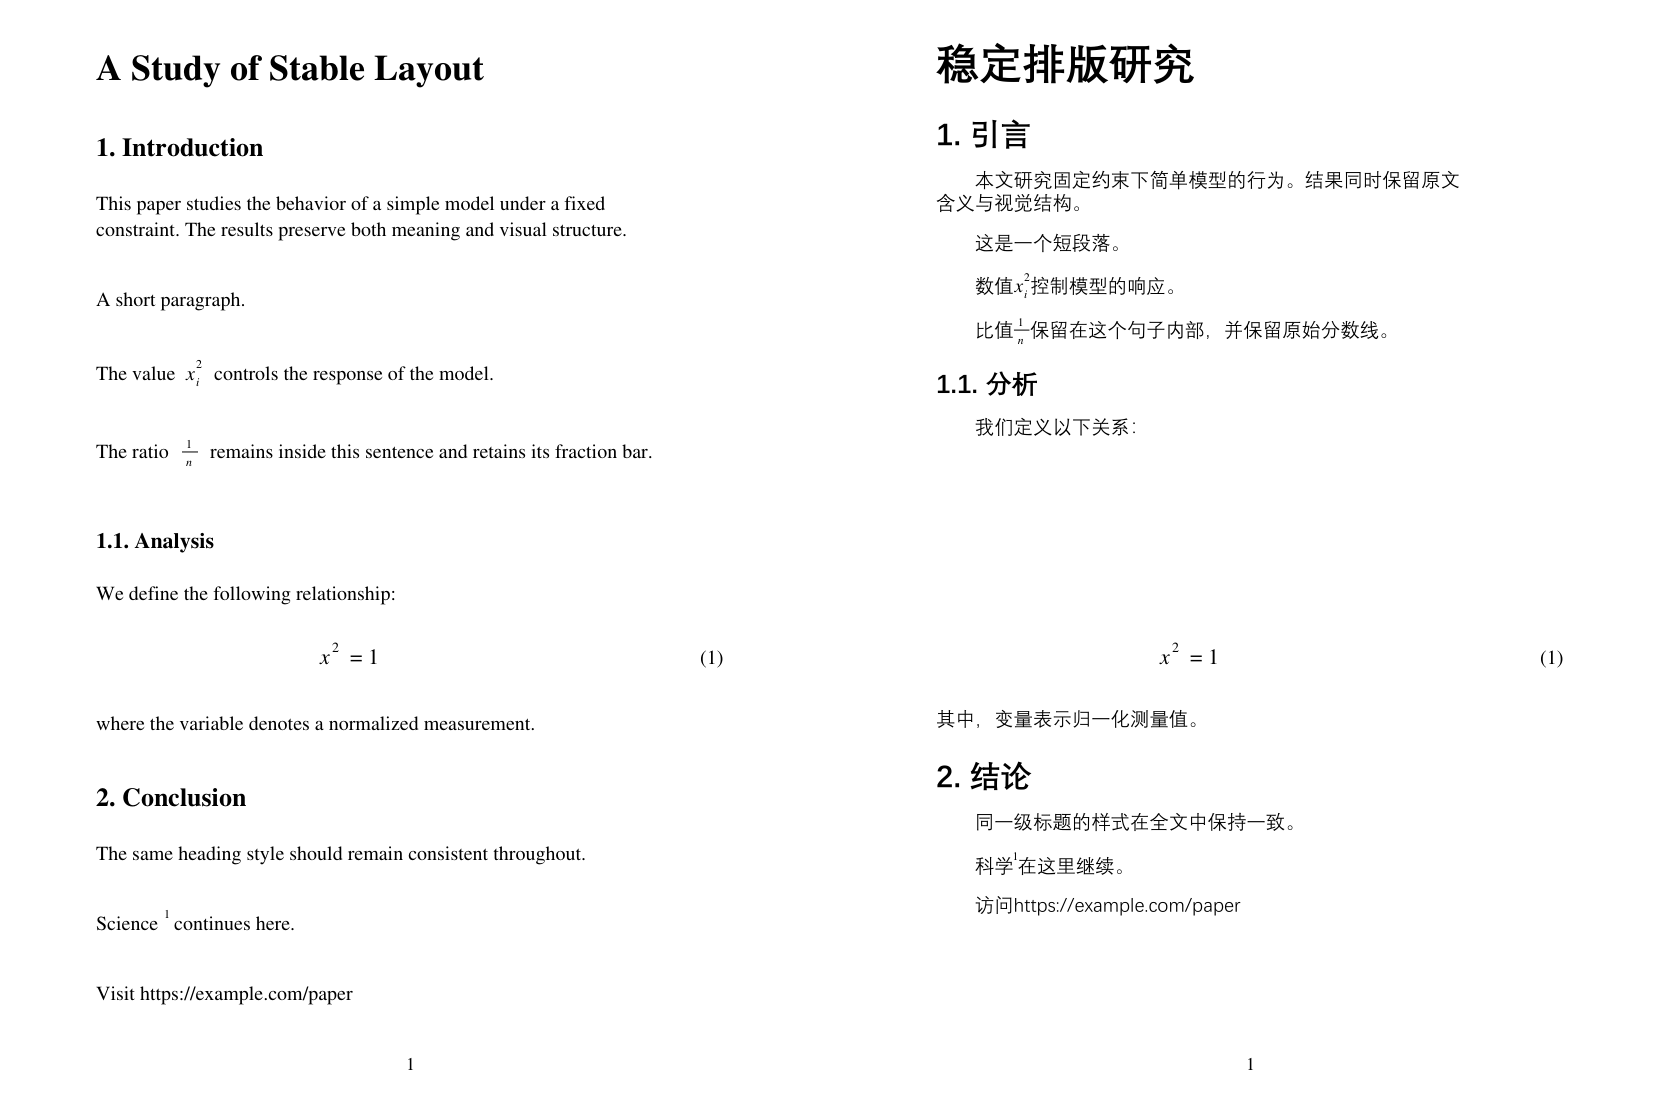
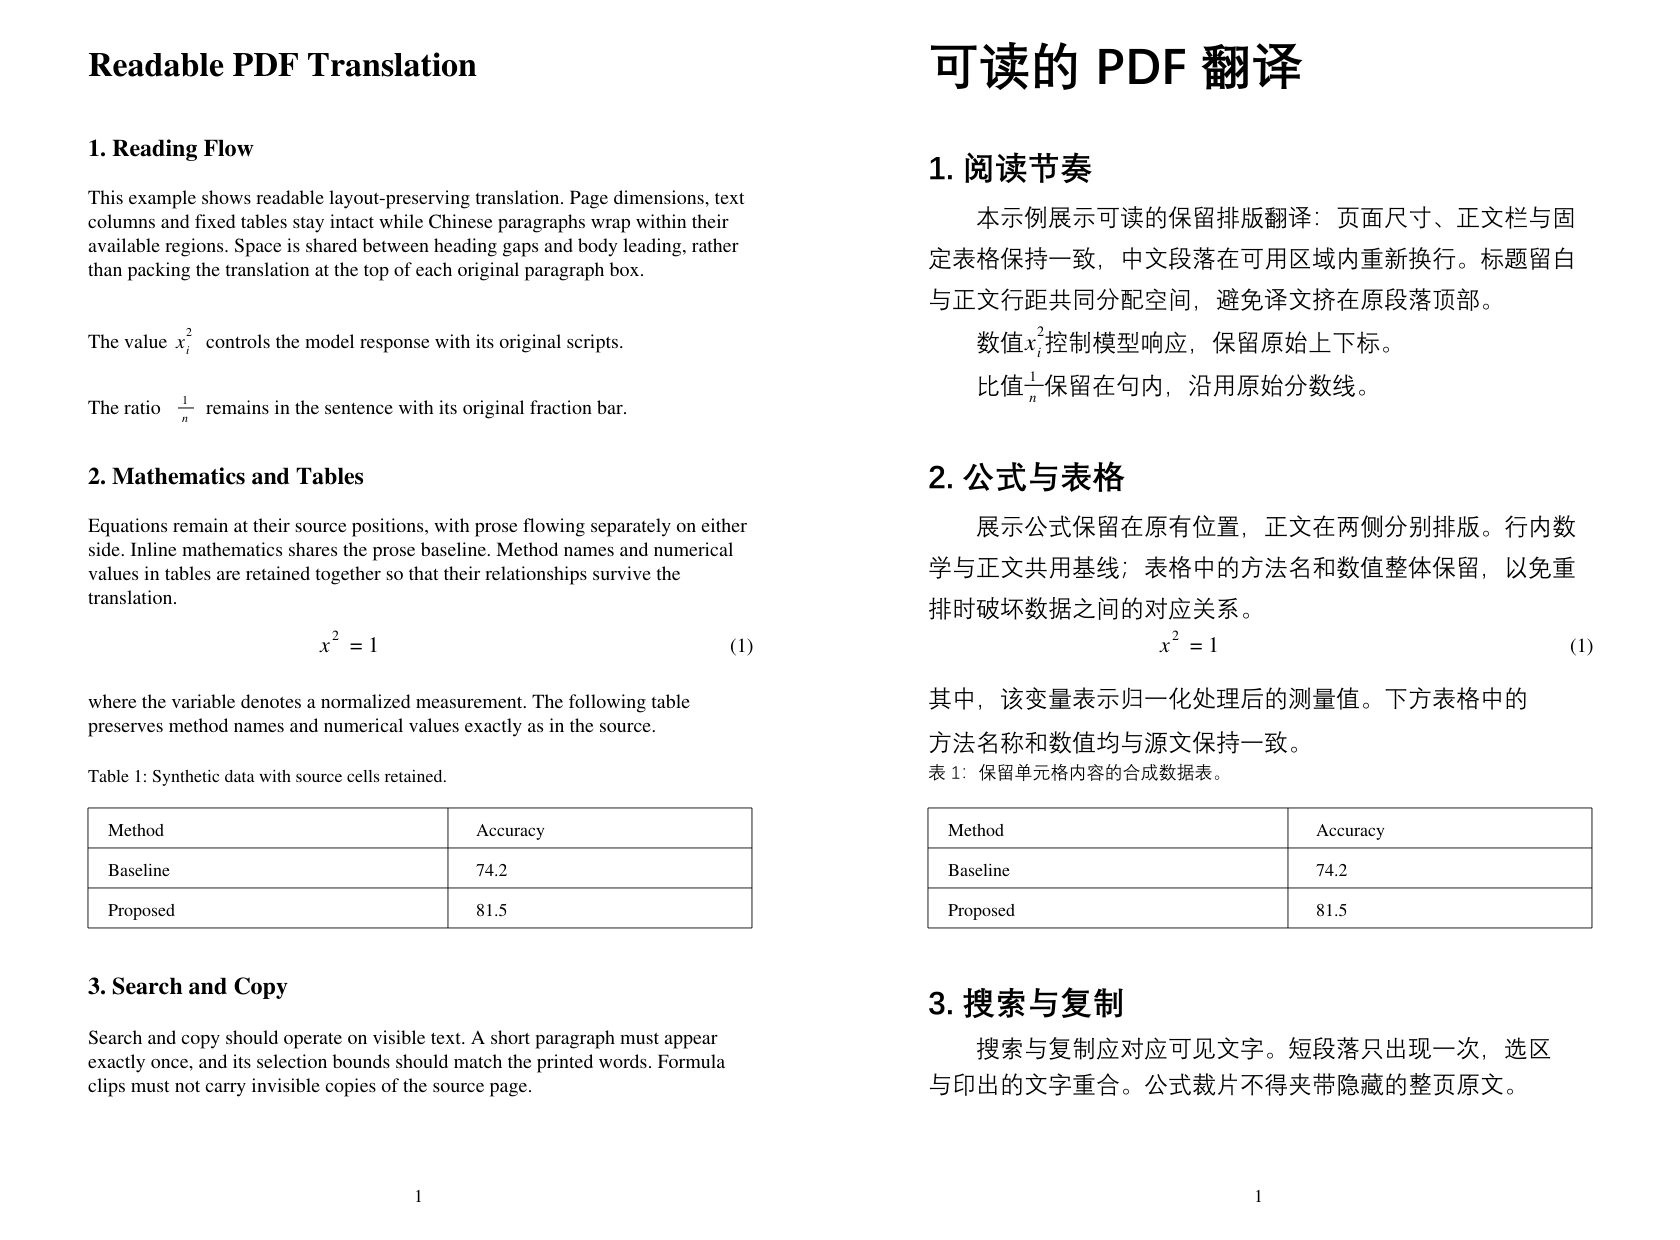
Refresh README examples and document current translation behavior

diff --git a/docs/generate_samples.py b/docs/generate_samples.py
@@ -1,0 +1,136 @@
+"""Generate README images from an original synthetic document and real outputs."""
+import argparse
+import json
+import sys
+from pathlib import Path
+
+import pymupdf as fitz
+from PIL import Image, ImageDraw, ImageFont
+
+sys.path.insert(0,str(Path(__file__).resolve().parents[1]/"scripts"))
+from layoutpdf.contracts import require,write
+from layoutpdf.extract import prepare
+from layoutpdf.pipeline import build,merge
+
+
+TRANSLATIONS={
+    "Readable PDF Translation":"可读的 PDF 翻译",
+    "1. Reading Flow":"1. 阅读节奏",
+    "This example":"本示例展示可读的保留排版翻译：页面尺寸、正文栏与固定表格保持一致，中文段落在可用区域内重新换行。标题留白与正文行距共同分配空间，避免译文挤在原段落顶部。",
+    "The value":"数值{math}控制模型响应，保留原始上下标。",
+    "The ratio":"比值{math}保留在句内，沿用原始分数线。",
+    "2. Mathematics and Tables":"2. 公式与表格",
+    "Equations remain":"展示公式保留在原有位置，正文在两侧分别排版。行内数学与正文共用基线；表格中的方法名和数值整体保留，以免重排时破坏数据之间的对应关系。",
+    "where the variable":"其中，该变量表示归一化处理后的测量值。下方表格中的方法名称和数值均与源文保持一致。",
+    "Table 1:":"表 1：保留单元格内容的合成数据表。",
+    "3. Search and Copy":"3. 搜索与复制",
+    "Search and copy":"搜索与复制应对应可见文字。短段落只出现一次，选区与印出的文字重合。公式裁片不得夹带隐藏的整页原文。",
+}
+
+
+def make_source(path):
+    with fitz.open() as pdf:
+        page=pdf.new_page(width=420,height=620)
+        def line(x,y,text,size=10,font="tiro"):
+            page.insert_text((x,y),text,fontsize=size,fontname=font)
+        def paragraph(text,y,size=10):
+            words=text.split();current=""
+            for word in words:
+                candidate=(current+" "+word).strip()
+                if current and fitz.get_text_length(candidate,fontname="tiro",fontsize=size)>332:
+                    line(44,y,current,size);y+=12
+                    current=word
+                else:current=candidate
+            if current:line(44,y,current,size)
+        line(44,38,"Readable PDF Translation",17,"tibo")
+        line(44,78,"1. Reading Flow",12,"tibo")
+        paragraph("This example shows readable layout-preserving translation. Page dimensions, text columns and fixed tables stay intact while Chinese paragraphs wrap within their available regions. Space is shared between heading gaps and body leading, rather than packing the translation at the top of each original paragraph box.",102)
+        line(44,174,"The value")
+        line(88,174,"x",10,"tiit");line(93,177,"i",6,"tiit");line(93,168,"2",6)
+        line(103,174,"controls the model response with its original scripts.")
+        line(44,207,"The ratio")
+        line(91,202,"1",6);line(91,211,"n",6,"tiit")
+        page.draw_line((89,204),(97,204),width=.5)
+        line(103,207,"remains in the sentence with its original fraction bar.")
+        line(44,242,"2. Mathematics and Tables",12,"tibo")
+        paragraph("Equations remain at their source positions, with prose flowing separately on either side. Inline mathematics shares the prose baseline. Method names and numerical values in tables are retained together so that their relationships survive the translation.",266)
+        line(160,326,"x",11,"tiit");line(166,320,"2",7);line(175,326,"= 1",11);line(365,326,"(1)")
+        paragraph("where the variable denotes a normalized measurement. The following table preserves method names and numerical values exactly as in the source.",354)
+        line(44,391,"Table 1: Synthetic data with source cells retained.",9)
+        for y in (404,424,444,464):page.draw_line((44,y),(376,y),width=.45)
+        for x in (44,224,376):page.draw_line((x,404),(x,464),width=.45)
+        for y,a,b in [(418,"Method","Accuracy"),(438,"Baseline","74.2"),(458,"Proposed","81.5")]:
+            line(54,y,a,9);line(238,y,b,9)
+        line(44,497,"3. Search and Copy",12,"tibo")
+        paragraph("Search and copy should operate on visible text. A short paragraph must appear exactly once, and its selection bounds should match the printed words. Formula clips must not carry invisible copies of the source page.",522)
+        line(207,601,"1",9)
+        pdf.save(path,garbage=4,deflate=True,no_new_id=True)
+
+
+def translate(document):
+    result={}
+    missing=[prefix for prefix in TRANSLATIONS
+             if not any(p["source"].startswith(prefix) for p in document["paragraphs"])]
+    if missing:raise ValueError(f"Missing sample paragraphs: {missing}")
+    for p in document["paragraphs"]:
+        matches=[t for prefix,t in TRANSLATIONS.items() if p["source"].startswith(prefix)]
+        if len(matches)!=1:raise ValueError(f"Unexpected paragraph: {p['source']}")
+        tokens=[token for token,entry in p["tokens"].items() if entry["kind"]=="math"]
+        result[p["id"]]=matches[0].format(math="".join(tokens))
+    return result
+
+
+def render_details(page,path):
+    panels=[]
+    font=ImageFont.load_default(size=22)
+    hits=page.search_for("短段落")
+    if len(hits)!=1:raise ValueError(f"Expected one literal search hit, got {len(hits)}")
+    copied=page.get_textbox(hits[0]+(-1,-1,1,1))
+    if "短段落" not in copied:raise ValueError(f"Copy check failed: {copied!r}")
+    for title,box,highlight in [
+        ("Heading hierarchy and body leading",fitz.Rect(40,60,380,229),False),
+        ("Actual PDF search bounds: short paragraph",fitz.Rect(40,480,380,575),True),
+    ]:
+        pix=page.get_pixmap(matrix=fitz.Matrix(2,2),clip=box,alpha=False)
+        im=Image.frombytes("RGB",(pix.width,pix.height),pix.samples)
+        if highlight:
+            overlay=Image.new("RGBA",im.size)
+            draw=ImageDraw.Draw(overlay)
+            for hit in hits:
+                draw.rectangle((hit.x0*2-pix.x,hit.y0*2-pix.y,hit.x1*2-pix.x,hit.y1*2-pix.y),
+                               fill=(53,142,209,65),outline=(32,112,176,220),width=2)
+            im=Image.alpha_composite(im.convert("RGBA"),overlay).convert("RGB")
+        panel=Image.new("RGB",(im.width+32,im.height+56),"white")
+        ImageDraw.Draw(panel).text((16,12),title,font=font,fill="#263647")
+        panel.paste(im,(16,48));panels.append(panel)
+    canvas=Image.new("RGB",(max(p.width for p in panels),sum(p.height for p in panels)+16),"#e7edf1")
+    y=0
+    for panel in panels:canvas.paste(panel,(0,y));y+=panel.height+16
+    canvas.save(path)
+
+
+def main():
+    parser=argparse.ArgumentParser(description=__doc__)
+    parser.add_argument("workdir",type=Path,help="New directory for generated PDFs and job data")
+    parser.add_argument("--assets-dir",type=Path,default=Path(__file__).parent/"assets")
+    parser.add_argument("--font");parser.add_argument("--bold-font")
+    args=parser.parse_args()
+    root=args.workdir.resolve();root.mkdir(parents=True,exist_ok=False)
+    make_source(root/"source.pdf")
+    doc=prepare(root/"source.pdf",root/"job",regular=args.font,bold=args.bold_font)
+    write(root/"translations.json",translate(doc));merge(root/"job",root/"translations.json")
+    result=build(root/"job");require(result["diagnostics"])
+    if not result["ok"]:raise ValueError("Sample build failed")
+    build_dir=Path(result["build"])
+    args.assets_dir.mkdir(parents=True,exist_ok=True)
+    with fitz.open(build_dir/"bilingual.pdf") as pdf:
+        pdf[0].get_pixmap(dpi=144,alpha=False).save(args.assets_dir/"synthetic-bilingual.png")
+    with fitz.open(build_dir/"translated.pdf") as pdf:
+        render_details(pdf[0],args.assets_dir/"synthetic-details.png")
+    print(json.dumps(dict(ok=True,build=str(build_dir),
+        images=[str(args.assets_dir/name) for name in ("synthetic-bilingual.png","synthetic-details.png")],
+        formula_checks=len(result["formulas"]),selection_pages=len(result["selection_checks"]),
+        search_hits=1,paragraphs=len(doc["paragraphs"])),indent=2))
+
+
+if __name__=="__main__":main()

diff --git a/README.en.md b/README.en.md
@@ -2,32 +2,28 @@
 
 English | [简体中文](README.md)
 
-A layout-preserving PDF translation skill for Codex. The active Codex model performs semantic translation while a deterministic local engine preserves page size, columns, images, source formulas, tables, links, headers, footers, and annotations.
+A layout-preserving PDF translation skill for Codex. The active Codex model performs semantic translation while a deterministic local engine preserves page size, columns, images, source formulas, tables, links, headers and footers.
 
 It targets academic and technical PDFs with a usable text layer. Scanned documents require OCR first.
 
-![Synthetic bilingual sample generated by the repository tests, including inline scripts, an inline fraction, and a display equation](docs/assets/synthetic-bilingual.png)
+![Current-engine bilingual sample: English source on the left and Chinese output on the right, with inline math, a display equation and a preserved table](docs/assets/synthetic-bilingual.png)
 
-The image is generated entirely by `tests/make_fixture.py` and contains no third-party paper content.
+The English source is on the left; the current engine's Chinese output is on the right. The example shows body leading, heading hierarchy, inline scripts and fractions, a display equation, and unchanged table cells. The [generator](docs/generate_samples.py) creates original sample content with fixed example translations; no third-party paper is included.
 
 ## Highlights
 
-- Keeps inline mathematics as source-derived vector assets with baseline metrics.
-- Flows inline formulas with prose while retaining display equations as standalone objects.
-- Separates mathematics from prose on mixed lines, absorbs overlapping script/number fragments into the formula asset, and rejoins prose split across formulas into one semantic paragraph. This prevents formula-dense sentences from being skipped or leaving isolated blank areas.
-- Uses relative overlap fractions for formula/prose collision decisions, tolerating tiny glyph-edge contact while retaining genuinely ambiguous source regions for review.
-- Uses vector clipping when a neighboring line enters an empty corner of a formula crop, without removing any intended formula ink.
-- Packs translated paragraphs within clear source column regions and distributes spare height through bounded leading and paragraph spacing. `build --layout-mode source` is reserved for an explicit vertical-alignment preference. Short headings inherit their text column, and CJK body baselines use bounded 1.50–1.80em spacing.
-- Reserves level-specific space before headings and gives heading expansion priority over extra body leading, keeping consecutive heading levels together and respecting dense-region limits.
-- Keeps explicitly unchanged paragraph flows in the source PDF, including their original typography and links.
-- Applies a two-em first-line indent to new Chinese and Japanese body paragraphs, excluding continuations.
-- Uses consistent style-wide scaling and real bold fonts; CJK body expansion is capped at `1.20×`, while title and heading expansion is capped at `1.50×`.
-- Selects the target-language face inside Linux TTC/OTC collections, so Simplified Chinese does not silently use Japanese glyph variants.
-- Adds a small explicit leading increase for CJK body text; constrained short or formula frames use audited local fallback, and one-character final lines are rebalanced within the paragraph.
-- Protects images, detected tables, standalone formulas, headers, footers, and other non-translatable regions.
-- Validates schemas, hashes, source coverage, fonts, assets, token order, geometry, and final PDF structure.
-- Produces translated and bilingual PDFs with hash-bound review evidence: all-page contact sheets and selected bilingual detail pages; `review --full` enables exhaustive evidence. Compact CLI reports and `inspect --pages` avoid repeatedly loading full records.
-- Physically removes invisible source-page text from formula crops, including legacy-job rebuilds, and checks glyph budgets, off-page text and bilingual side isolation to prevent incorrect selection and duplicate copying.
+- **Readable CJK typography:** composes same-page, same-column continuations before wrapping and gives short headings their body column's width. New body paragraphs use a two-em indent; available space is shared through bounded `1.50–1.80em` baseline spacing and level-specific heading gaps.
+- **Source mathematics:** preserves inline glyphs as vectors with baseline metrics, including scripts, accents and fraction bars. Display equations remain fixed; prose on either side is laid out separately to keep punctuation and citations in place.
+- **Selection, search and copy:** physically removes hidden source-page text from formula crops, including legacy-job rebuilds. Generated-font Unicode maps use NFC and UTF-16BE to avoid literal CJK search failures caused by Noto compatibility aliases.
+- **Document-wide checks:** validates source/font/asset identity and tokens; checks bounds, overlap, missing glyphs, formula strokes, preserved regions, glyph counts and bilingual side isolation. Delivery binds the current build and review evidence to their hashes.
+- **Less repeated review:** compact CLI diagnostics and page-specific `inspect --pages`. Review covers all-page overviews and risk-selected detail, with changed-page reports after repairs; `review --full` enables exhaustive high-resolution inspection.
+- **Two outputs:** produces `translated.pdf` and side-by-side `bilingual.pdf`. Prose can redistribute space between fixed objects; use `build --layout-mode source` only for an explicit preference for vertical correspondence.
+
+## Search and selection example
+
+![Actual translated heading and body spacing, plus the PDF search bounds for the Chinese short-paragraph phrase](docs/assets/synthetic-details.png)
+
+The blue box comes from the actual PDF search coordinates for “短段落” (short paragraph). The generator requires exactly one hit, verifies that copying its bounds returns the expected text, and runs text-layer integrity checks. This illustrates search coordinates; it is not a reader UI screenshot or a claim that every drag-selection gesture has been tested in every reader.
 
 ## Pipeline
 
@@ -39,7 +35,7 @@ flowchart LR
     D --> E[atomic merge]
     E --> F[deterministic layout]
     F --> G[PDF build and checks]
-    G --> H[72/144 DPI review]
+    G --> H[Overview and selected detail]
     H --> I[atomic delivery]
 ```
 
@@ -50,7 +46,7 @@ Codex supplies translated text. `scripts/layout_pdf.py` performs extraction, con
 Python 3.10 or later is required.
 
 ```bash
-git clone <repository-url> translate-layout-pdf
+git clone https://github.com/xiaoye-learner/translate-layout-pdf.git
 cd translate-layout-pdf
 python -m pip install -r requirements.txt
 python scripts/layout_pdf.py doctor
@@ -74,17 +70,23 @@ See [SKILL.md](SKILL.md) for the complete operational contract.
 python scripts/layout_pdf.py doctor
 python -m unittest discover -s tests -v
 python tests/run_sample.py ./sample-output
+python docs/generate_samples.py ./sample-output/readme --assets-dir docs/assets
 ```
+
+The `docs/generate_samples.py` command regenerates the README images. Use a fresh work directory. The generator checks the build, formulas and search hits; fonts are selected from the system or supplied with `--font` / `--bold-font`, so screenshots may vary slightly. `tests/run_sample.py` continues to generate the regression fixture.
 
 Tests generate their own synthetic PDFs and do not require third-party papers. The current 54-test suite includes mixed formula/prose lines, overlapping formula fragments, tiny edge-contact tolerance, vector corner masks, column balancing around fixed objects, unchanged source flows, semantic boundaries at display equations, target-language collection-face selection, inline scripts and fractions, display equations, CJK indentation and leading, heading consistency and before-spacing, dense-region spacing fallback, continuation flows, protected tables, review gates, artifact tamper detection, and literal search across CJK font aliases and supplementary Unicode characters.
 
 ## Limitations
 
-- Scanned documents require OCR.
+- Scanned documents require OCR, which this skill does not perform automatically.
 - Detected tables are currently preserved as a whole rather than translated cell by cell.
 - Author blocks, irregular encodings, complex vector artwork, and borderless tables can require manual review.
 - Text that cannot fit the source page produces a stopping diagnostic instead of silently becoming unreadable.
 - Fonts are not distributed with the repository; users must choose fonts whose embedding terms fit their outputs.
+- Bilingual composition copies links but does not guarantee preservation of non-link annotations.
+- Linear copy order for complex formula scripts remains reader-dependent; outputs do not claim full PDF/UA semantic tagging.
+- The workflow aims to reduce repeated repairs. No cross-paper speed or token-saving benchmark is claimed, and first-build success is not guaranteed for every PDF.
 
 ## License
 

diff --git a/CHANGELOG.md b/CHANGELOG.md
@@ -4,6 +4,7 @@ All notable changes to this project will be documented here.
 
 ## Unreleased
 
+- Refreshed the bilingual README previews from an original synthetic document, added actual search-bound illustrations and a reproducible image generator, and consolidated capability and limitation descriptions in both languages.
 - Canonicalized generated-font ToUnicode mappings with NFC and valid UTF-16BE destinations, restoring literal CJK search across Noto font aliases without changing glyphs or weakening search assertions.
 - Added portable synthetic-font regression tests for compatibility aliases, supplementary characters and unchanged rendering; the suite now contains 54 tests.
 - Physically removed off-clip text from formula assets and cleaned legacy assets in memory, preventing invisible source-page text from polluting selection and copying.

diff --git a/THIRD_PARTY_NOTICES.md b/THIRD_PARTY_NOTICES.md
@@ -19,6 +19,8 @@ No font file is included in this repository. The engine uses a font pair already
 
 ## Design references with no incorporated code
 
+The README previews are generated from original synthetic content and fixed example translations in `docs/generate_samples.py`, using this repository's own engine. The blue search box is drawn from actual output-PDF search coordinates; it is not copied from a reader UI. These images contain no third-party paper or bundled font file. The original regression fixture remains generated by `tests/make_fixture.py`.
+
 The following repositories were inspected for architectural or workflow ideas. No source file, renderer, schema, fixture, asset, or runtime dependency from them is included in this repository.
 
 | Project | Inspected commit | License | Scope of reference |
